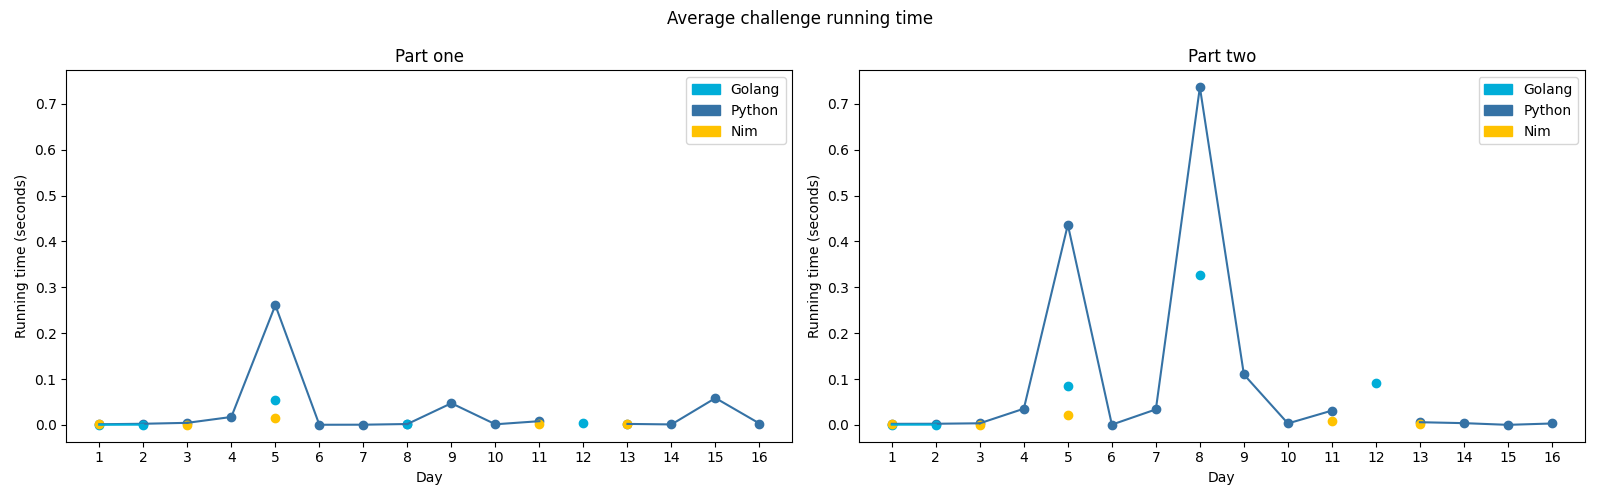
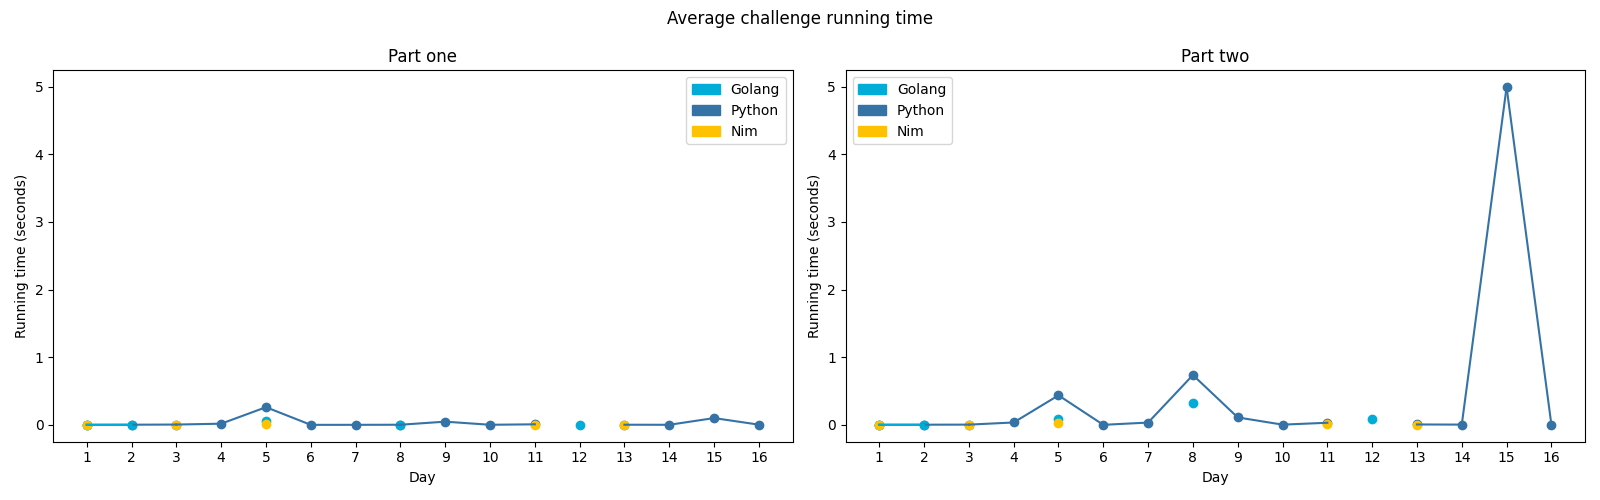
Add 2021-15 part 2 in Python

diff --git a/challenges/2021/15-chiton/py/__init__.py b/challenges/2021/15-chiton/py/__init__.py
@@ -24,13 +24,23 @@ def get_adjacent_points(point: Point) -> List[Point]:
     ]
 
 
-def parse(instr: str) -> Graph:
+def parse(instr: str, expand: bool) -> Graph:
     nodes = {}
     edges = {}
 
-    for y, line in enumerate(instr.strip().splitlines()):
+    lines = instr.strip().splitlines()
+    num_lines = len(lines)
+    line_len = len(lines[0])
+
+    for y, line in enumerate(lines):
         for x, char in enumerate(line):
+            number = int(char)
             nodes[(x, y)] = int(char)
+
+            if expand:
+                for my in range(5):
+                    for mx in range(5):
+                        nodes[x + (mx * line_len), y + (my * num_lines)] = ((number + my + mx - 1) % 9) + 1
 
     for node in nodes:
         edges[node] = edges.get(node, []) + [
@@ -75,9 +85,10 @@ def get_shortest_path_len(graph: Graph) -> int:
 class Challenge(BaseChallenge):
     @staticmethod
     def one(instr: str) -> int:
-        g = parse(instr)
+        g = parse(instr, False)
         return get_shortest_path_len(g)
 
     @staticmethod
     def two(instr: str) -> Any:
-        raise NotImplementedError
+        g = parse(instr, True)
+        return get_shortest_path_len(g)

diff --git a/challenges/2021/README.md b/challenges/2021/README.md
@@ -26,7 +26,7 @@ Solutions to the [2021 Advent of Code](https://adventofcode.com/2021).
 | 12 - Passage Pathing                | ★ ★                | [Go](12-passagePathing/go)                                                                              | I couldn't tell you how it works, but it does kinda work and I think I have a vague idea (external help was used).                  |
 | 13 - Transparent Origami            | ★ ★                | [Python](13-transparentOrigami/py), [Nim](13-transparentOrigami/nim)                                    | I got stuck for hours on an intermittent off-by-one error. :(                                                                       |
 | 14 - Extended Polymerization        | ★ ★                | [Python](14-extendedPolymerization/py)                                                                  | Another off-by-one error, but this time it was because of dodgy division. Wonderful.                                                |
-| 15 - Chiton                         | ★ ☆                | [Python](15-chiton/py)                                                                                  | Pathfinding is hard                                                                                                                 |
+| 15 - Chiton                         | ★ ★                | [Python](15-chiton/py)                                                                                  | Pathfinding is hard                                                                                                                 |
 | 16 - Packet Decoder                 | ★ ★                | [Python](16-packetDecoder/py)                                                                           | Parsing and interpreting stuff is surprisingly enjoyable                                                                            |
 | 17 - Trick Shot                     | Unattempted        |                                                                                                         |                                                                                                                                     |
 | 18 - Snailfish                      | Could not solve    |                                                                                                         |                                                                                                                                     |
